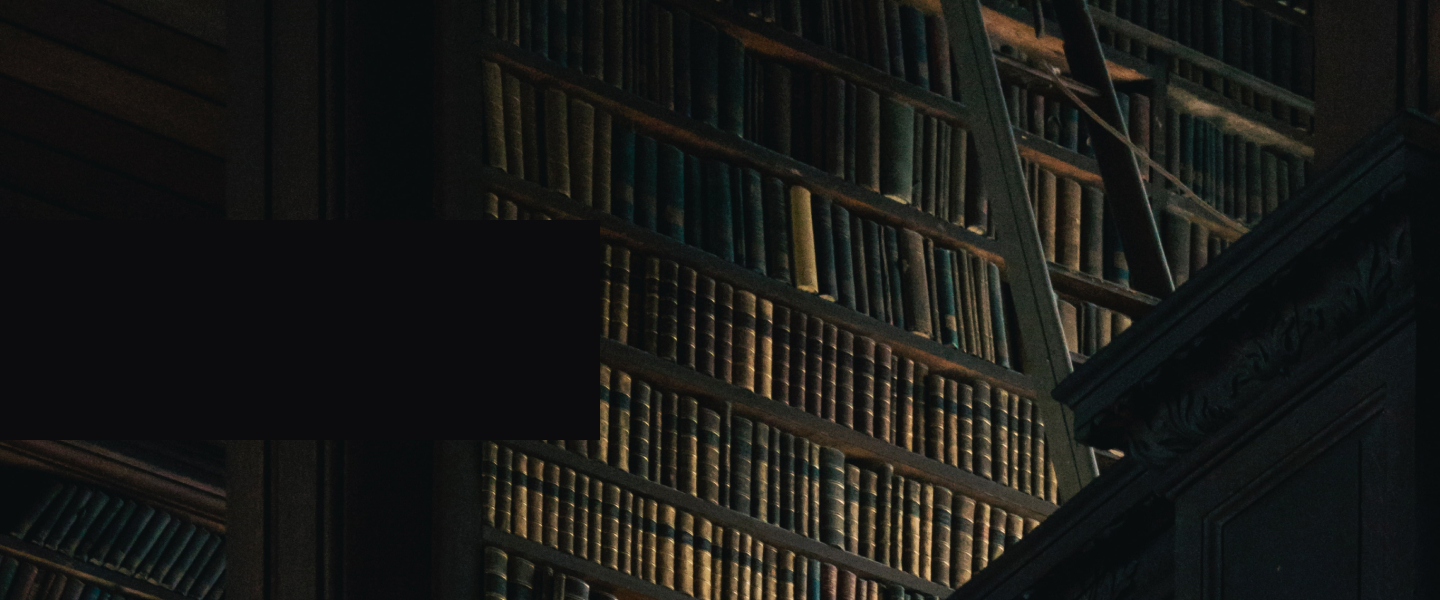
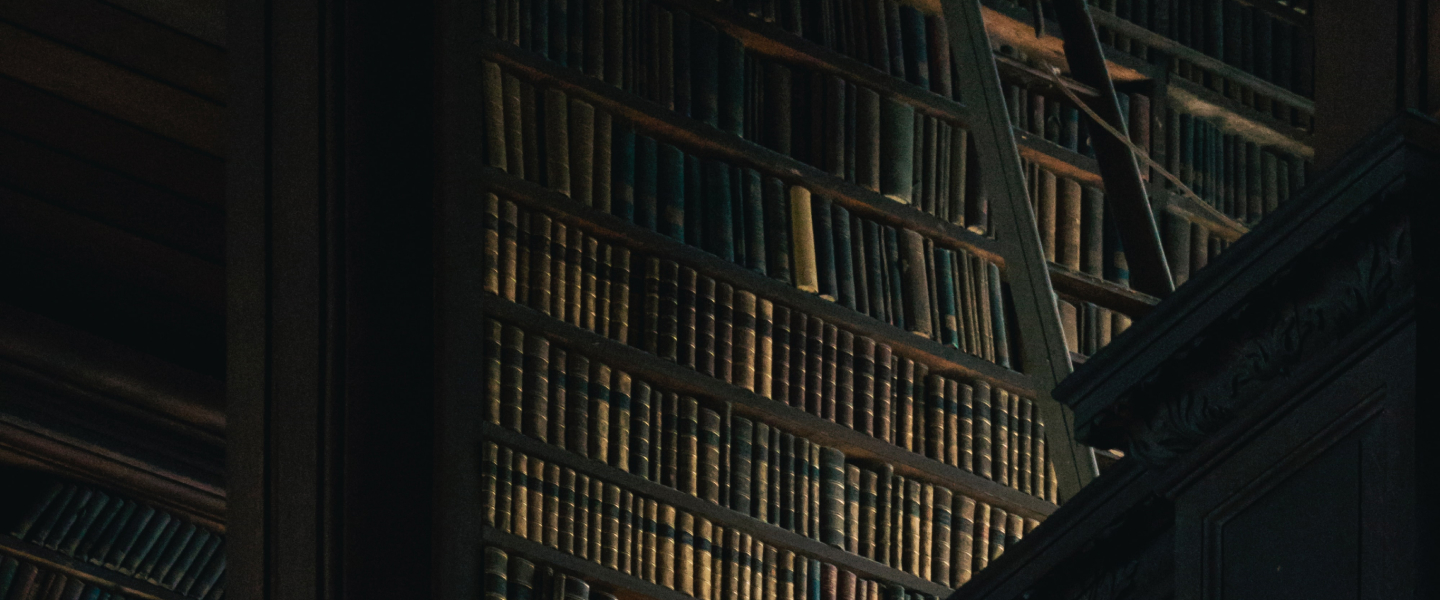
feat: add style for header, welcome section

diff --git a/library/style.scss b/library/style.scss
@@ -14,11 +14,13 @@ ul{
 // _____________________________________________________________________________________________________________________________
 
 .body{
-  display: flex;
-  justify-content: center;
   width: 100%;
+  display: flex;
+  flex-direction: column;
+  align-items: center;
+  margin: 0;
   background-color: rgb(0, 0, 0);
-  font-family: 'EB Garamond', serif;
+  font-family: 'Inter', sans-serif;
 
   h1, h2, h3, h4{
     font-family: 'Forum', cursive;
@@ -32,12 +34,92 @@ ul{
 .header{
   width: 100%;
   display: flex;
+  justify-content: space-between;
   background-color: rgb(12, 12, 14);
   color: rgb(255, 255, 255);
+
+  h1{
+    margin-left: 20px;
+    font-weight: 300;
+    font-size: 30px;
+    line-height: 50px;
+    letter-spacing: 0.5px;
+  }
+
+  &__menu-icon-conteiner{
+    display: flex;
+  }
+
+  &__icon{
+    width: 4.25%;
+    height: auto;
+    margin: 31px 20px 31px 10px;
+  }
 }
 
 .menu{
+  font-size: 20.4px;
+  line-height: 50px;
+  font-weight: 300;
+
   &__ul{
     display: flex;
+    padding: 0;
+  }
+
+  &__li{
+    max-height: 40px;
+    flex-shrink: 0;
+    margin-right: 30px;
+    border-bottom: 1px solid transparent;
+    transition: all 0.5s ease;
+  }
+
+  &__li:hover{
+    border-bottom: 1px solid rgb(255, 255, 255);
+    cursor: pointer;
+  }
+}
+
+.welcome{
+  position: relative;
+
+  &__gradient{
+    width: 1440px;
+    height: 300px;
+    position: absolute;
+    top: 0;
+    left: 0;
+    background: linear-gradient(rgb(12, 12, 14), transparent);
+  }
+
+  &__h3-conteiner{
+    width: 600px;
+    height: 220px;
+    position: absolute;
+    top: 219px;
+    background-color: rgb(12, 12, 14);
+  }
+
+  &__h3{
+    margin: 35px 0 0 0;
+    line-height: 50px;
+    font-size: 40px;
+    font-weight: 400;
+    letter-spacing: 3px;
+    text-transform: uppercase;
+    text-align: center;
+
+    color: rgb(255, 255, 255);
+
+    p{
+      margin: 0 0 0 0;
+      &:nth-of-type(1){
+        margin-left: -9px;
+      }
+      &:nth-of-type(3){
+        margin-left: 4px;
+      }
+    }
   }
 }

diff --git a/library/style.css b/library/style.css
@@ -13,11 +13,13 @@ ul {
 }
 
 .body {
-  display: flex;
-  justify-content: center;
   width: 100%;
+  display: flex;
+  flex-direction: column;
+  align-items: center;
+  margin: 0;
   background-color: rgb(0, 0, 0);
-  font-family: "EB Garamond", serif;
+  font-family: "Inter", sans-serif;
 }
 .body h1, .body h2, .body h3, .body h4 {
   font-family: "Forum", cursive;
@@ -30,10 +32,81 @@ ul {
 .header {
   width: 100%;
   display: flex;
+  justify-content: space-between;
   background-color: rgb(12, 12, 14);
   color: rgb(255, 255, 255);
 }
+.header h1 {
+  margin-left: 20px;
+  font-weight: 300;
+  font-size: 30px;
+  line-height: 50px;
+  letter-spacing: 0.5px;
+}
+.header__menu-icon-conteiner {
+  display: flex;
+}
+.header__icon {
+  width: 4.25%;
+  height: auto;
+  margin: 31px 20px 31px 10px;
+}
 
+.menu {
+  font-size: 20.4px;
+  line-height: 50px;
+  font-weight: 300;
+}
 .menu__ul {
   display: flex;
+  padding: 0;
+}
+.menu__li {
+  max-height: 40px;
+  flex-shrink: 0;
+  margin-right: 30px;
+  border-bottom: 1px solid transparent;
+  transition: all 0.5s ease;
+}
+.menu__li:hover {
+  border-bottom: 1px solid rgb(255, 255, 255);
+  cursor: pointer;
+}
+
+.welcome {
+  position: relative;
+}
+.welcome__gradient {
+  width: 1440px;
+  height: 300px;
+  position: absolute;
+  top: 0;
+  left: 0;
+  background: linear-gradient(rgb(12, 12, 14), transparent);
+}
+.welcome__h3-conteiner {
+  width: 600px;
+  height: 220px;
+  position: absolute;
+  top: 219px;
+  background-color: rgb(12, 12, 14);
+}
+.welcome__h3 {
+  margin: 35px 0 0 0;
+  line-height: 50px;
+  font-size: 40px;
+  font-weight: 400;
+  letter-spacing: 3px;
+  text-transform: uppercase;
+  text-align: center;
+  color: rgb(255, 255, 255);
+}
+.welcome__h3 p {
+  margin: 0 0 0 0;
+}
+.welcome__h3 p:nth-of-type(1) {
+  margin-left: -9px;
+}
+.welcome__h3 p:nth-of-type(3) {
+  margin-left: 4px;
 }/*# sourceMappingURL=style.css.map */

diff --git a/library/index.html b/library/index.html
@@ -8,7 +8,7 @@
   <link rel="stylesheet" href="./style.css">
   <link rel="preconnect" href="https://fonts.googleapis.com">
   <link rel="preconnect" href="https://fonts.gstatic.com" crossorigin>
-  <link href="https://fonts.googleapis.com/css2?family=EB+Garamond:wght@400;500;600;700;800&display=swap" rel="stylesheet">
+  <link href="https://fonts.googleapis.com/css2?family=Inter:wght@100;200;300;400;500;600;700;800;900&display=swap" rel="stylesheet">
   <link rel="preconnect" href="https://fonts.googleapis.com">
   <link rel="preconnect" href="https://fonts.gstatic.com" crossorigin>
   <link href="https://fonts.googleapis.com/css2?family=Forum&display=swap" rel="stylesheet">
@@ -21,6 +21,7 @@
   <header class="header">
     <h1>Brooklyn Public Library</h1>
 
+    <div class="header__menu-icon-conteiner">
     <nav class="menu">
       <ul class="menu__ul">
         <li class="menu__li"><a href="#about">About</a></li>
@@ -31,7 +32,6 @@
       </ul>
     </nav>
 
-    <div class="header__icon-conteiner">
       <img class="header__icon" src="./assets/icon_profile.svg" alt="profile icon">
     </div>
   </header>
@@ -39,7 +39,15 @@
 
 
   <main class="main">
-    <section class="welcome"><h3 class="welcome__h2">Welcome to the Brooklyn Library</h3></section>
+    <section class="welcome">
+      <img src="./assets/Welcome.jpg" alt="firstscreen">
+
+      <div class="welcome__gradient"></div>
+
+      <div class="welcome__h3-conteiner">
+        <h3 class="welcome__h3"><p>Welcome</p><p>to the Brooklyn</p><p>Library</p></h3>
+      </div>
+    </section>
 
 
     <section class="about" id="about">
